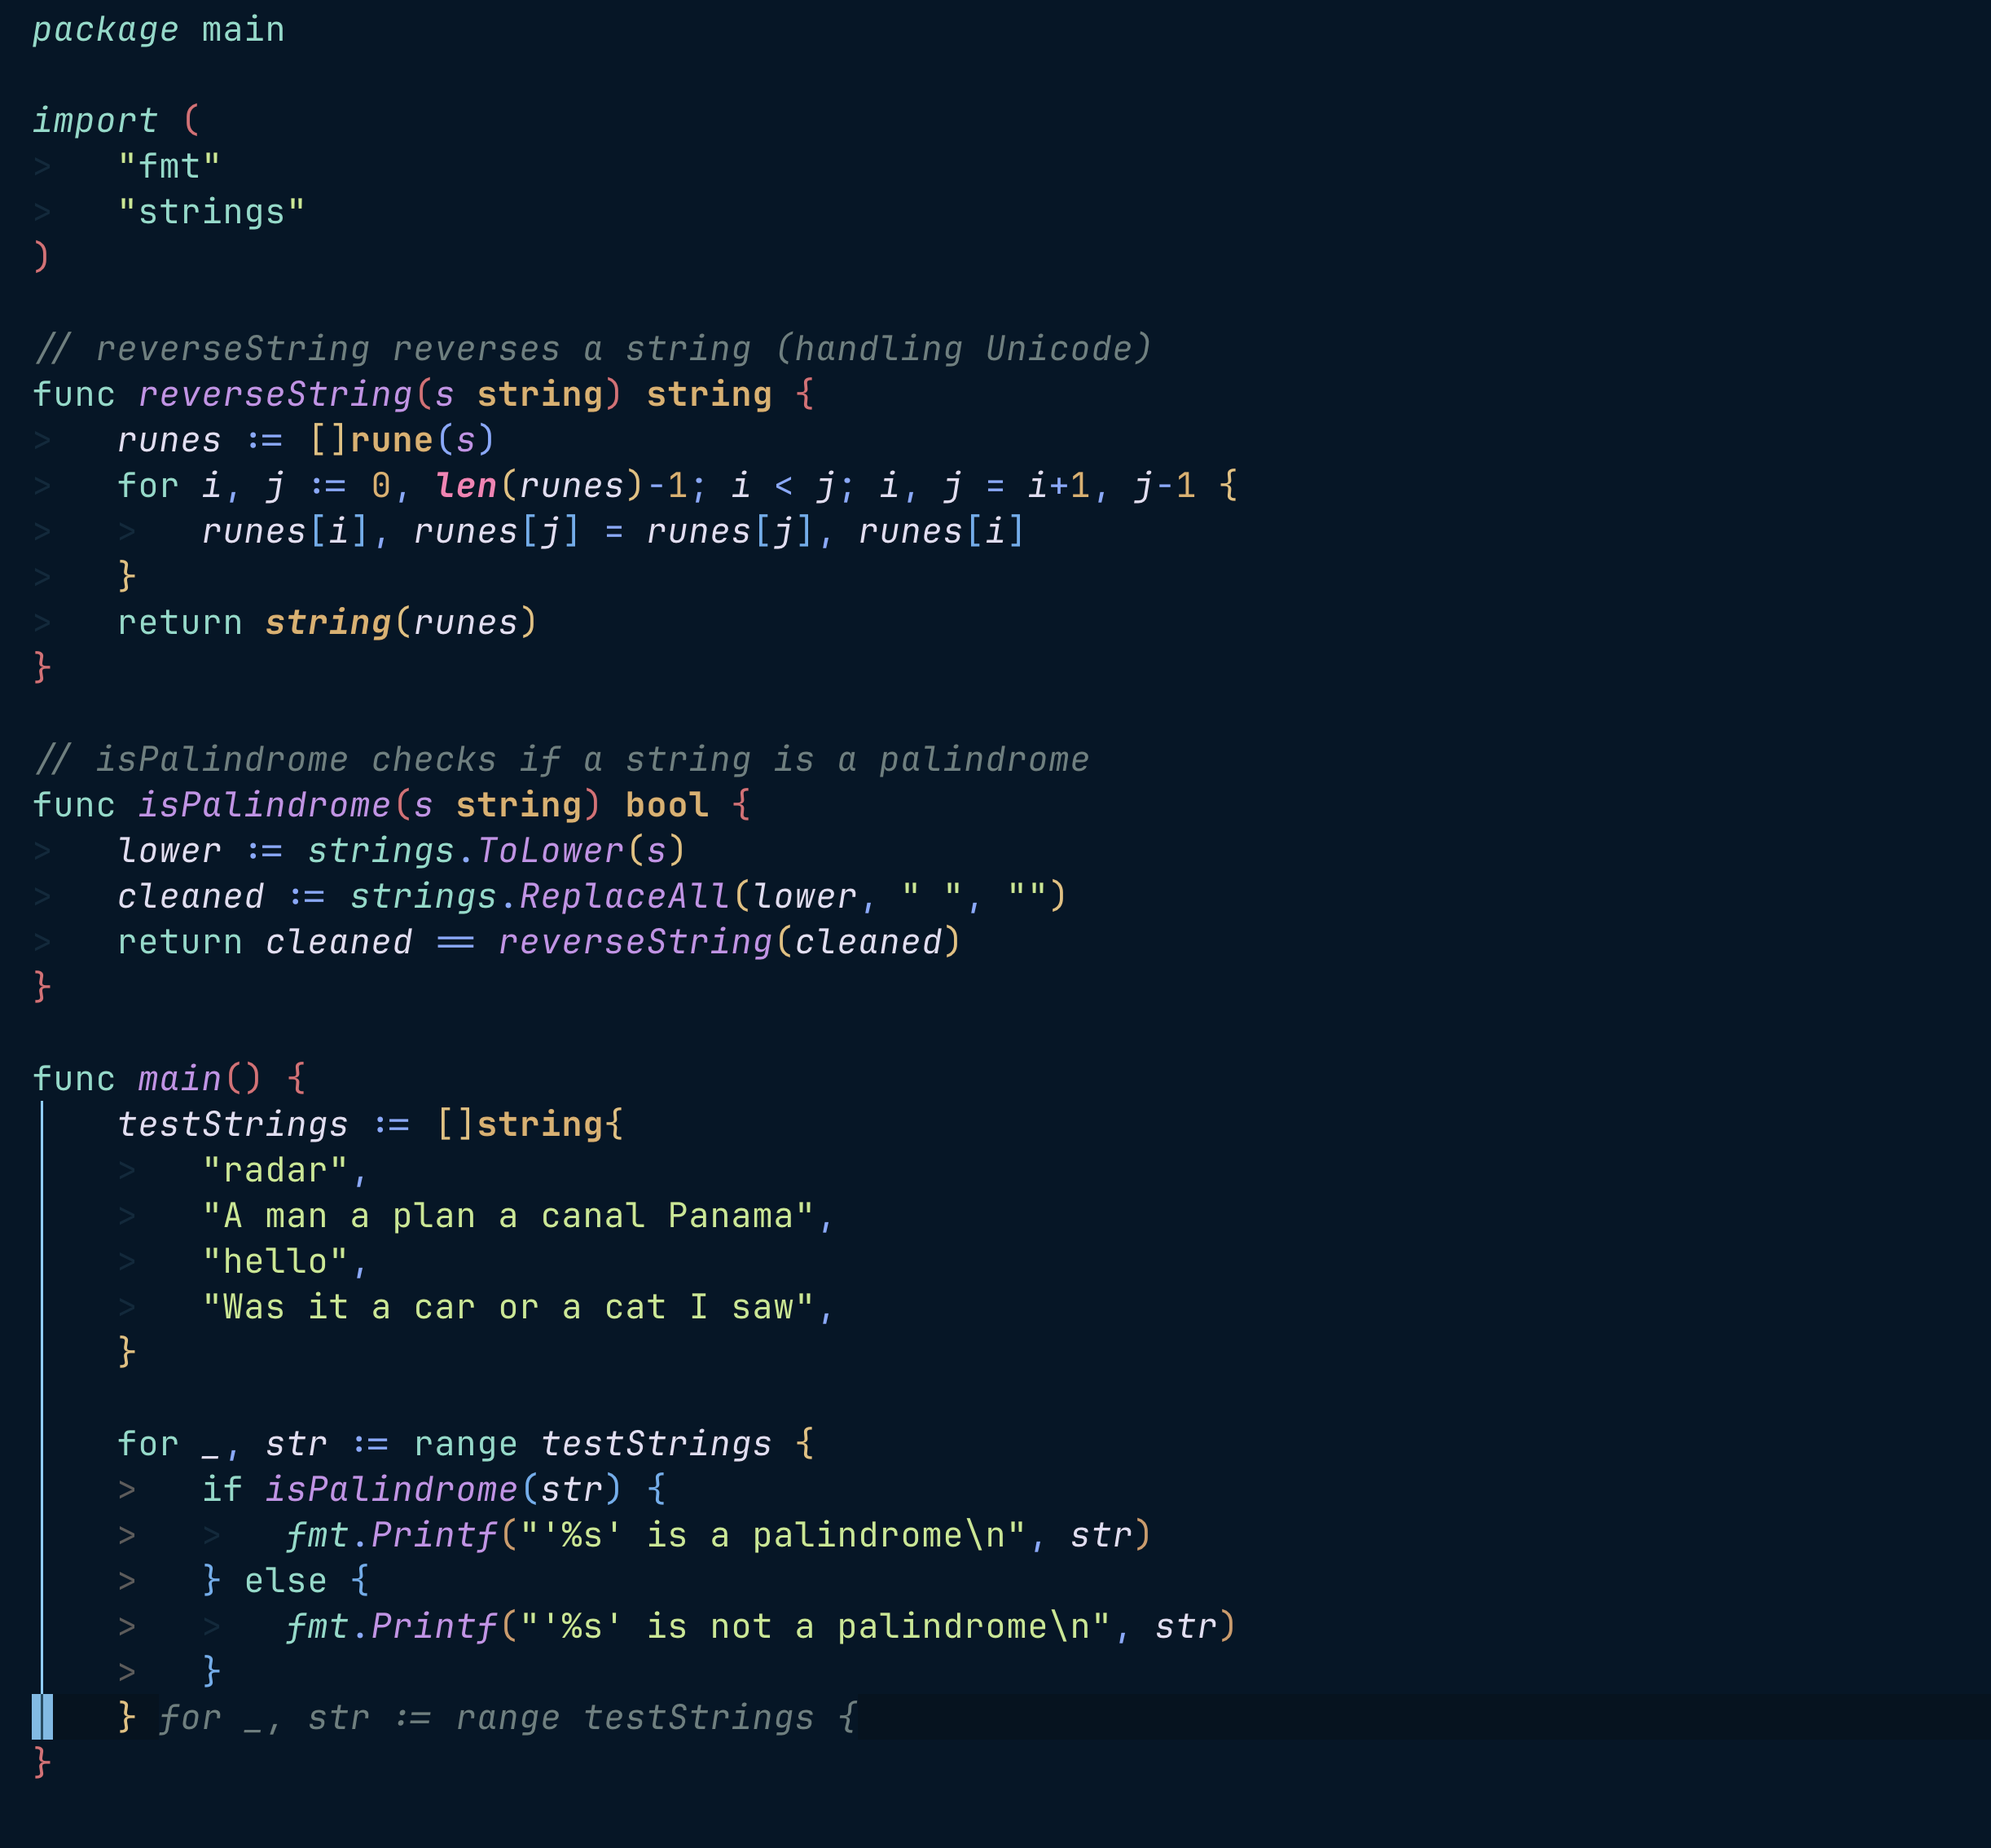
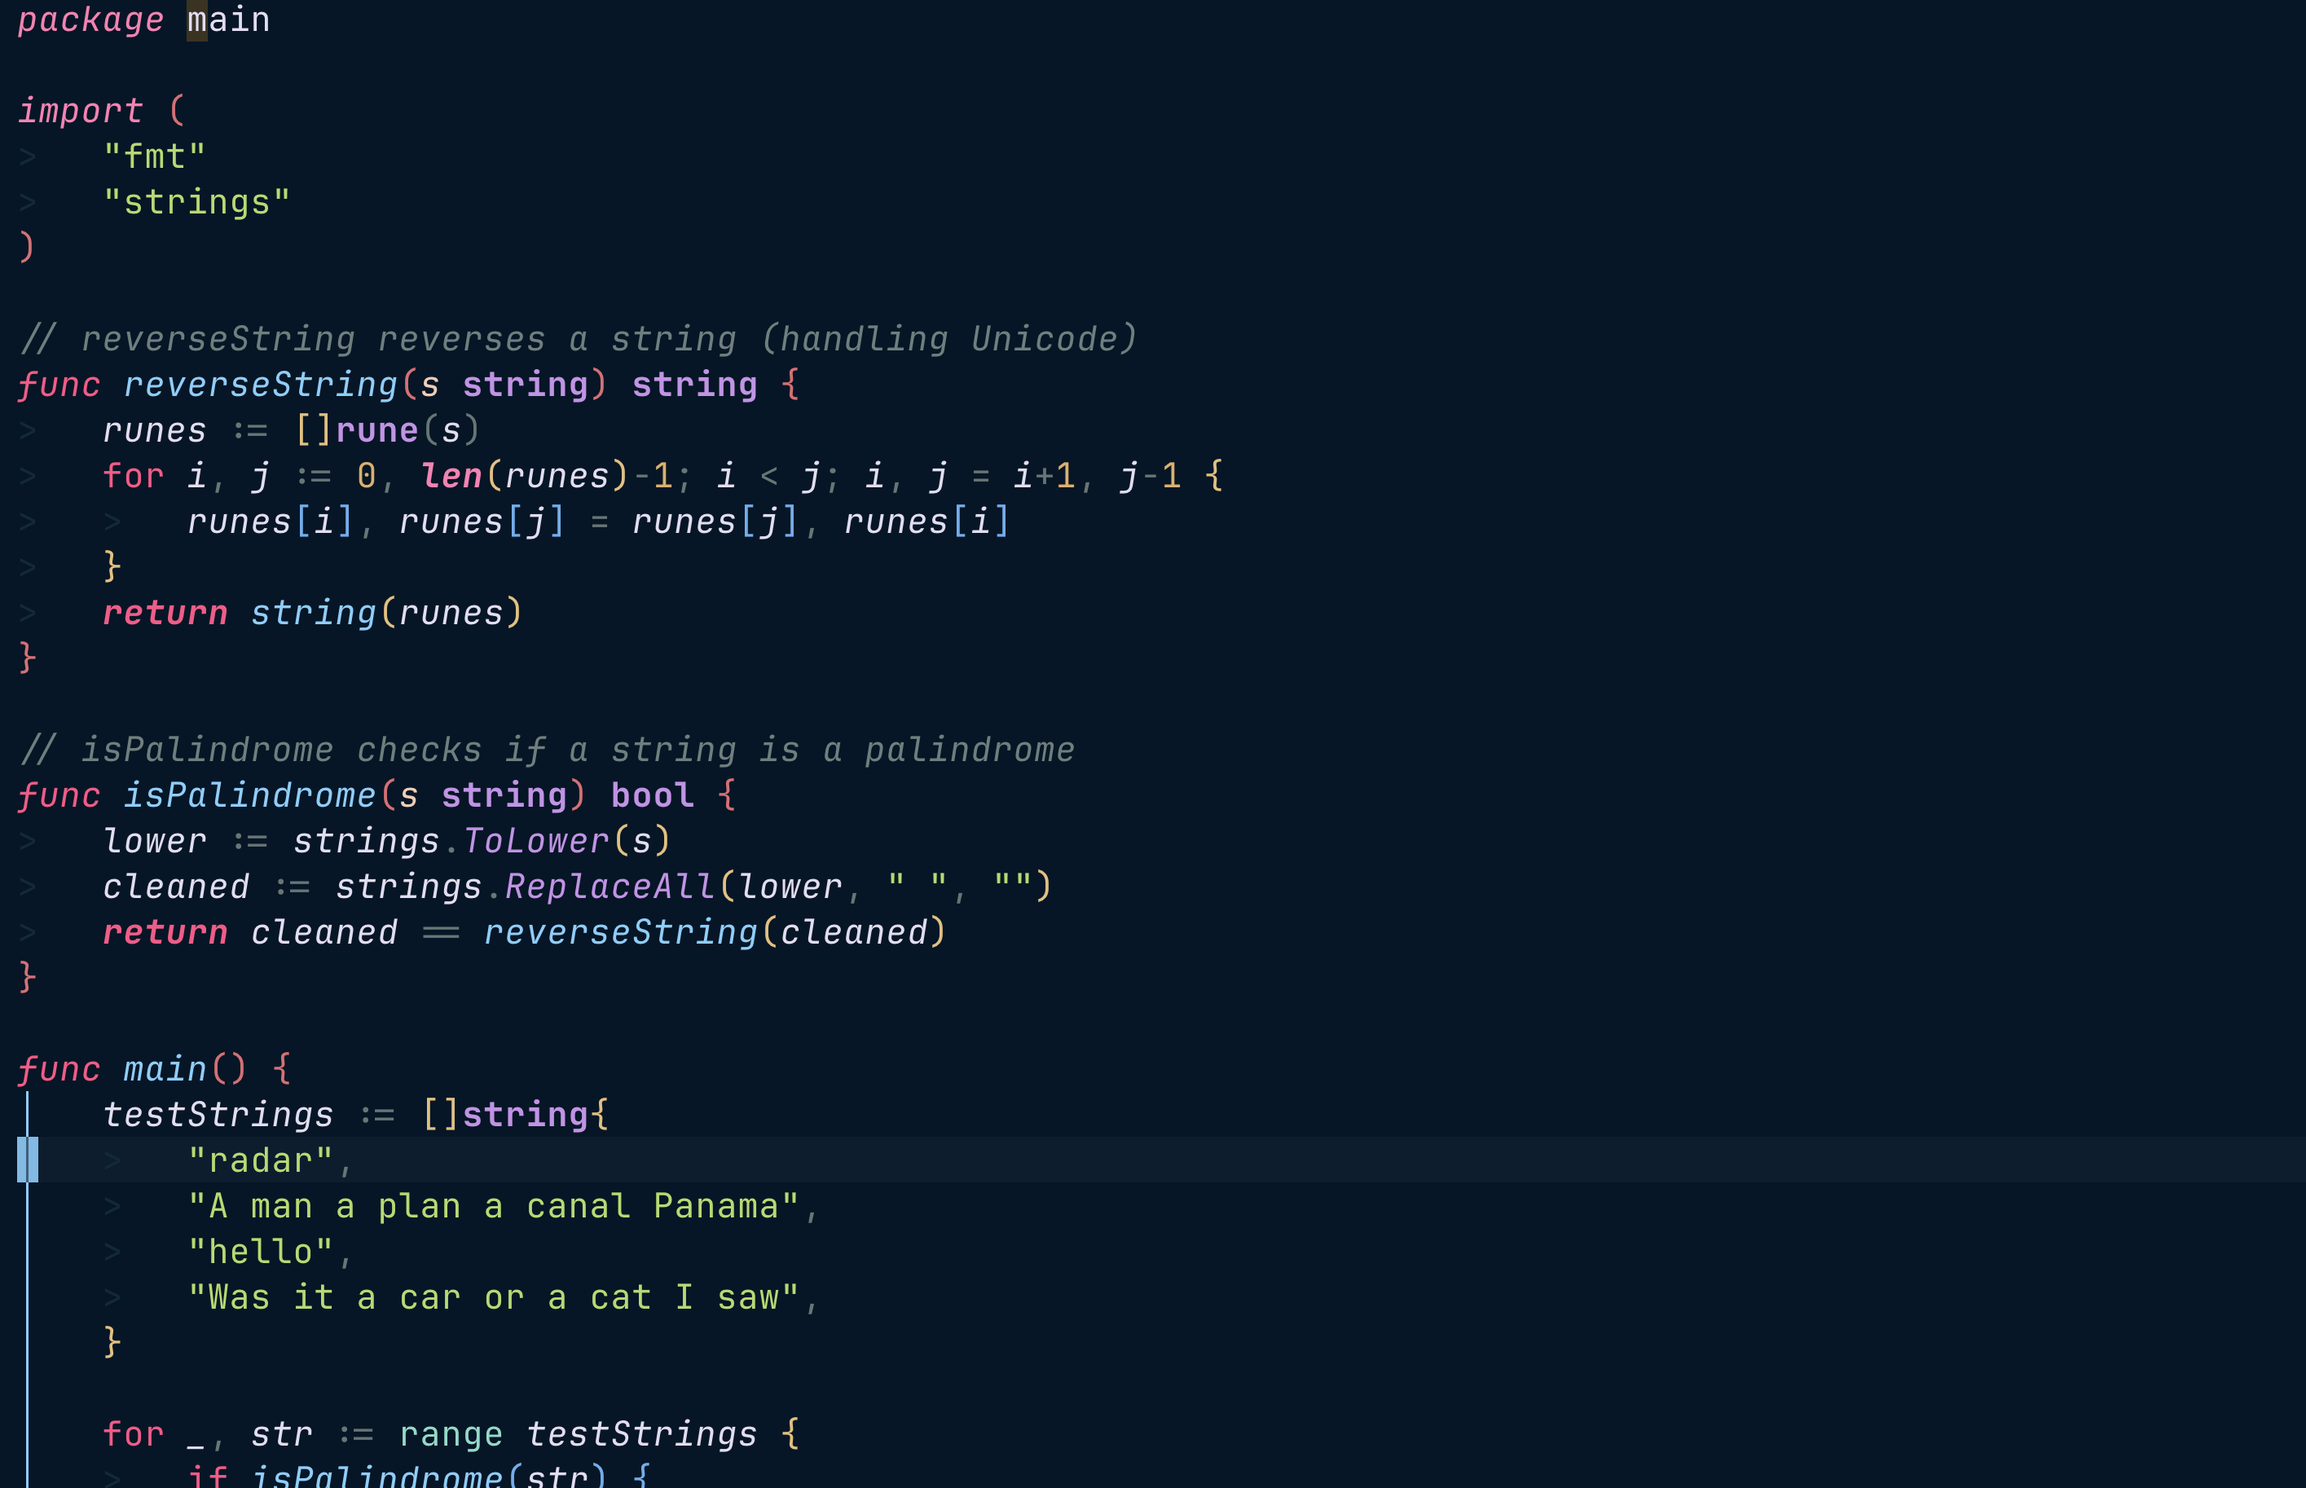
Major change in colors, now it has more gold and red vibe

diff --git a/README.md b/README.md
@@ -36,84 +36,90 @@ return {
         surface = "#011f35",
         overlay = "#0b2942",
         muted = "#6a8080", -- Night Owl Slate Comments
-        subtle = "#82aaff",
-        rose = "#ff7eb6",
-        pine = "#7fdbca",
-        foam = "#7dcfff",
-        iris = "#c792ea",
-        leaf = "#c3e88d",
-        love = "#ff5189",
-        -- TOKYONIGHT MATCH: The classic "e0af68" yellow.
-        -- It's buttery, balanced, and premium.
-        gold = "#0db9d7",
+        subtle = "#637777", -- Muted Steel for punctuation
+        rose = "#ff7eb6", -- Metadata/Async
+        pine = "#7fdbca", -- Constants/Booleans
+        foam = "#7dcfff", -- Functions
+        iris = "#c792ea", -- Classes/Booleans
+        love = "#ff5189", -- Keywords/Flow
+        gold = "#e0af68", -- Types (TokyoNight Gold)
+
+        -- NEW PREMIUM VARIABLES
+        mint = "#f2ceb6", -- Parameters (Italicized)
+        olive = "#addb67", -- Strings & SQL
       },
     },
 
-    groups = {
-      link = "iris",
-      panel = "surface",
-      error = "love",
-      hint = "iris",
-      info = "foam",
-      note = "pine",
-      todo = "rose",
-      warn = "gold",
-      git_add = "leaf",
-      git_change = "foam",
-      git_delete = "love",
-    },
-
     highlight_groups = {
-      -- 1. THE COMMENT FIX
-      ["@comment"] = { fg = "#6a8080", italic = true },
-      ["Comment"] = { fg = "#6a8080", italic = true },
-      ["@lsp.type.comment"] = { fg = "#6a8080" },
+      -- 1. THE "CALM" ENGINE
+      ["@punctuation.bracket"] = { fg = "subtle" },
+      ["@punctuation.delimiter"] = { fg = "subtle" },
+      ["@operator"] = { fg = "subtle" },
+      ["@comment"] = { fg = "muted", italic = true },
+      ["Comment"] = { fg = "muted", italic = true },
 
-      -- 2. KEYWORD DIFFERENTIATION (The "Class vs Export" fix)
-      ["@keyword.export"] = { fg = "iris", italic = true },
-      ["@keyword.import"] = { fg = "iris", italic = true },
-      ["@keyword.storage"] = { fg = "rose" },
-      ["@keyword.modifier"] = { fg = "rose", italic = true },
-      ["@keyword.conditional"] = { fg = "rose" },
+      -- 2. LOGIC FLOW (The "Love" Action)
+      ["@keyword.conditional"] = { fg = "love" },
+      ["@keyword.return"] = { fg = "love", italic = true, bold = true },
+      ["@keyword.repeat"] = { fg = "love" },
+      ["@keyword.exception"] = { fg = "love" },
+      ["@keyword.function"] = { fg = "love", italic = true }, -- 'function' vs 'const'
+      ["@punctuation.special"] = { fg = "love" }, -- The '*' in function*
 
-      -- 3. PROPERTY STABILITY (The "Foam" fix)
-      ["@variable.member"] = { fg = "foam" },
-      ["@property"] = { fg = "foam" },
-      ["@field"] = { fg = "foam" },
-      ["@variable.parameter"] = { fg = "iris", italic = true },
+      -- 3. STRUCTURE & METADATA
+      ["@keyword.export"] = { fg = "rose", italic = true },
+      ["@keyword.import"] = { fg = "rose", italic = true },
+      ["@keyword.storage"] = { fg = "iris" }, -- 'const', 'let', 'static'
+      ["@keyword.modifier"] = { fg = "rose", italic = true }, -- 'async', 'readonly'
 
-      -- 4. TYPE DEFINITIONS (Tokyonight Yellow)
+      -- 4. THE BLUEPRINT (Gold Hierarchy)
       ["@type"] = { fg = "gold", bold = true },
-      ["@type.builtin"] = { fg = "gold", bold = true },
-      ["@type.definition"] = { fg = "gold", bold = true },
+      ["@type.builtin"] = { fg = "iris" },
+      ["@type.interface"] = { fg = "gold", bold = true },
+      ["@variable.parameter"] = { fg = "mint", italic = true },
+
+      -- 5. ACTION (Foam for Functions)
+      ["@function"] = { fg = "foam" },
+      ["@function.method"] = { fg = "foam" },
+      ["@function.call"] = { fg = "foam" },
+      ["@property"] = { fg = "iris" },
+      ["@variable.member"] = { fg = "iris" },
+
+      -- 6. DATA (Olive for Strings)
       ["@constant"] = { fg = "pine" },
       ["@boolean"] = { fg = "pine" },
-      ["@string"] = { fg = "leaf" },
-      ["@function"] = { fg = "iris" },
+      ["@string"] = { fg = "olive" },
 
-      -- 5. THE STABILITY ENGINE (LSP Overrides)
-      ["@lsp.type.property"] = { fg = "foam" },
-      ["@lsp.type.variableMember"] = { fg = "foam" },
-      ["@lsp.type.function"] = { link = "@function" },
-      ["@lsp.type.method"] = { link = "@function" },
-      ["@lsp.type.type"] = { fg = "gold", bold = true },
-      ["@lsp.type.class"] = { fg = "gold", bold = true },
-      ["@lsp.type.interface"] = { fg = "gold", bold = true },
-      ["@lsp.type.parameter"] = { link = "@variable.parameter" },
-
-      -- 6. UI ACCENTS
-      Visual = { bg = "#1d3b53", inherit = false },
-      CursorLine = { bg = "#021320" },
+      -- 7. UI ACCENTS
+      Visual = { bg = "#1b2e3f", inherit = false },
+      CursorLine = { bg = "#081d2f" },
       LineNr = { fg = "#3b4261" },
-      CursorLineNr = { fg = "subtle", bold = true },
-      WinSeparator = { fg = "#3b4261", bg = "NONE" },
-      CopilotSuggestion = { fg = "#5a6a8a" },
-      BlinkCmpGhostText = { fg = "#5a6a8a" },
+      CursorLineNr = { fg = "foam", bold = true },
+      WinSeparator = { fg = "#0b2942", bg = "NONE" },
+
+      -- LSP Overrides for separation
+      ["@lsp.type.type"] = { link = "@type" },
+      ["@lsp.type.interface"] = { link = "@type.interface" },
+      ["@lsp.type.function"] = { link = "@function" },
+      ["@lsp.type.method"] = { link = "@function.method" },
+      ["@lsp.type.parameter"] = { fg = "mint", italic = true },
+      ["@lsp.type.variable"] = { fg = "subtle" }, -- Mutes regular variables
     },
   },
   config = function(_, opts)
     require("rose-pine").setup(opts)
     vim.cmd("colorscheme rose-pine")
+
+    vim.api.nvim_create_autocmd({ "BufEnter", "BufWinEnter" }, {
+      pattern = { "*.ts", "*.tsx", "*.js", "*.jsx", "*.lua" },
+      callback = function()
+        vim.fn.matchadd("CoroutineKeyword", "\\<yield\\>", 100)
+        vim.fn.matchadd("CoroutineKeyword", "\\<await\\>", 100)
+        vim.fn.matchadd("CoroutineKeyword", "\\<async\\>", 100)
+      end,
+    })
+
+    vim.api.nvim_set_hl(0, "CoroutineKeyword", { fg = "#ff7eb6", italic = true })
   end,
 }
 ```
